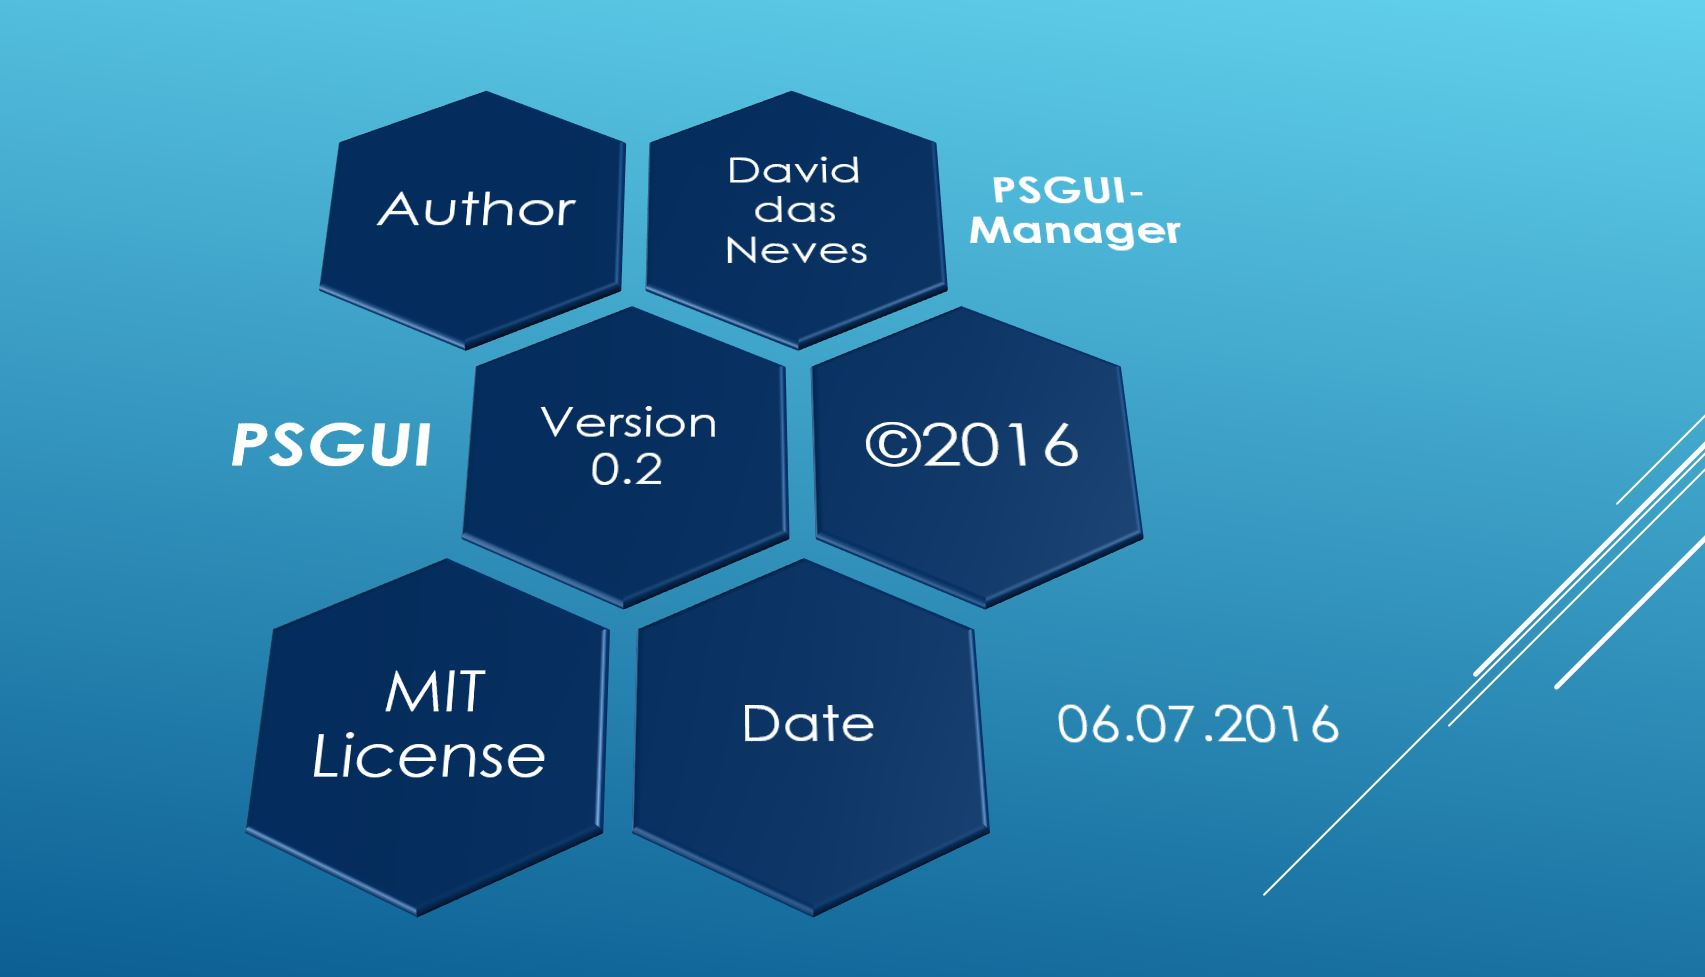
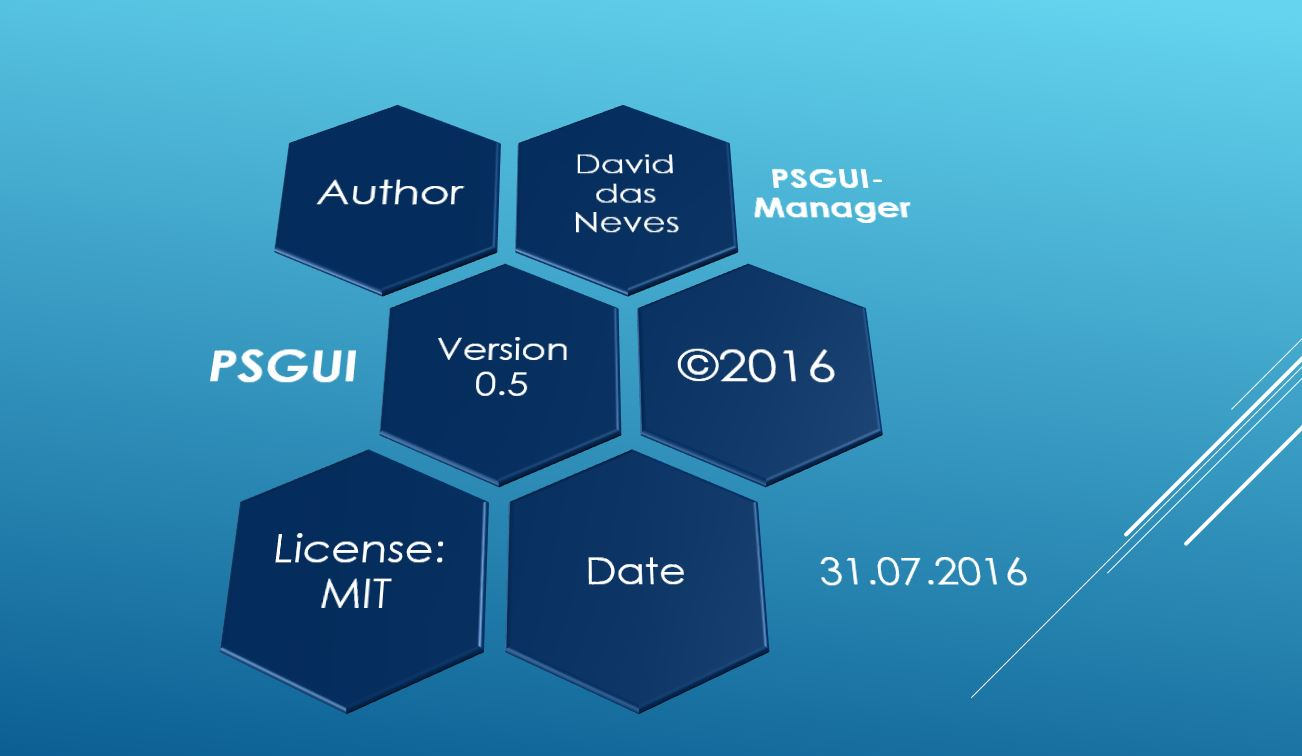
New Examples and new Version

diff --git a/Project PSGUI/PSGUI/Dialogs/Examples/02_PCInformation/02_PCInformation.xaml b/Project PSGUI/PSGUI/Dialogs/Examples/02_PCInformation/02_PCInformation.xaml
@@ -2,8 +2,8 @@
     xmlns="http://schemas.microsoft.com/winfx/2006/xaml/presentation"
     xmlns:x="http://schemas.microsoft.com/winfx/2006/xaml"
     Title="OS Details" Height="306" Width="525" WindowStartupLocation="CenterScreen" WindowStyle='None' ResizeMode='NoResize'>
-    <Grid Margin="0,0,-0.3,0.3">
-        <TextBox HorizontalAlignment="Center" Height="23" TextWrapping="Wrap" Text="Operating System Details" VerticalAlignment="Top" Width="525" Margin="0,-1,-0.3,0" TextAlignment="Center" Foreground="White" Background="#FF98D6EB"/>
+    <Grid Margin="0,0,-0.43,0.43">
+        <TextBox HorizontalAlignment="Center" Height="23" TextWrapping="Wrap" Text="Operating System Details" VerticalAlignment="Top" Width="525" Margin="0,-1,-0.43,0" TextAlignment="Center" Foreground="White" Background="#FF98D6EB"/>
         <Label Content="Hostname" HorizontalAlignment="Left" Margin="0,27,0,0" VerticalAlignment="Top" Height="30" Width="170" Background="#FF98D6EB" Foreground="White"/>
         <Label Content="Operating System Name" HorizontalAlignment="Left" Margin="0,62,0,0" VerticalAlignment="Top" Height="30" Width="170" Background="#FF98D6EB" Foreground="White"/>
         <Label Content="Available Memory" HorizontalAlignment="Left" Margin="0,97,0,0" VerticalAlignment="Top" Height="30" Width="170" Background="#FF98D6EB" Foreground="White"/>

diff --git a/Project PSGUI/PSGUI/Dialogs/Production/Example_PCInformation/Example_PCInformation.xaml b/Project PSGUI/PSGUI/Dialogs/Production/Example_PCInformation/Example_PCInformation.xaml
@@ -2,8 +2,8 @@
     xmlns="http://schemas.microsoft.com/winfx/2006/xaml/presentation"
     xmlns:x="http://schemas.microsoft.com/winfx/2006/xaml"
     Title="OS Details" Height="306" Width="525" WindowStartupLocation="CenterScreen" WindowStyle='None' ResizeMode='NoResize'>
-    <Grid Margin="0,0,-0.3,0.3">
-        <TextBox HorizontalAlignment="Center" Height="23" TextWrapping="Wrap" Text="Operating System Details" VerticalAlignment="Top" Width="525" Margin="0,-1,-0.3,0" TextAlignment="Center" Foreground="White" Background="#FF98D6EB"/>
+    <Grid Margin="0,0,-0.43,0.43">
+        <TextBox HorizontalAlignment="Center" Height="23" TextWrapping="Wrap" Text="Operating System Details" VerticalAlignment="Top" Width="525" Margin="0,-1,-0.43,0" TextAlignment="Center" Foreground="White" Background="#FF98D6EB"/>
         <Label Content="Hostname" HorizontalAlignment="Left" Margin="0,27,0,0" VerticalAlignment="Top" Height="30" Width="170" Background="#FF98D6EB" Foreground="White"/>
         <Label Content="Operating System Name" HorizontalAlignment="Left" Margin="0,62,0,0" VerticalAlignment="Top" Height="30" Width="170" Background="#FF98D6EB" Foreground="White"/>
         <Label Content="Available Memory" HorizontalAlignment="Left" Margin="0,97,0,0" VerticalAlignment="Top" Height="30" Width="170" Background="#FF98D6EB" Foreground="White"/>

diff --git a/Project PSGUI/PSGUI/PSGUI_Manager/PSGUI_Manager.xaml b/Project PSGUI/PSGUI/PSGUI_Manager/PSGUI_Manager.xaml
@@ -3,7 +3,7 @@
     ===========================================================================
         Created on:   	06.07.2016
         Created by:   	David das Neves
-        Version:        0.3
+        Version:        0.43
         Project:        PSGUI_Manager
         Filename:       PSGUI_Manager.xaml
     ===========================================================================
@@ -87,7 +87,7 @@
             <ColumnDefinition Width="0.94*" />
             <ColumnDefinition Width="auto" />
             <ColumnDefinition Width="0.55*" />
-            <!--<ColumnDefinition Width="0.3*" />-->
+            <!--<ColumnDefinition Width="0.43*" />-->
         </Grid.ColumnDefinitions>
 
         <!-- Grid Splitters -->

diff --git a/Project PSGUI/PSGUI/Dialogs/Production/MouseTracker/MouseTracker.xaml b/Project PSGUI/PSGUI/Dialogs/Production/MouseTracker/MouseTracker.xaml
@@ -8,7 +8,7 @@
         CornerRadius="15" VerticalAlignment="Top" Name="Border">        
         <Border.Background>
             <LinearGradientBrush StartPoint='0,0' EndPoint='0,1'>
-                <LinearGradientBrush.GradientStops> <GradientStop Color='#C4CBD8' Offset='0' /> <GradientStop Color='#E6EAF5' Offset='0.3' /> 
+                <LinearGradientBrush.GradientStops> <GradientStop Color='#C4CBD8' Offset='0' /> <GradientStop Color='#E6EAF5' Offset='0.43' /> 
                 <GradientStop Color='#CFD7E2' Offset='0.9' /> <GradientStop Color='#C4CBD8' Offset='1' /> </LinearGradientBrush.GradientStops>
             </LinearGradientBrush>
         </Border.Background> 

diff --git a/Project PSGUI/PSGUI/Dialogs/Examples/20_PSGUIManager_Example/20_PSGUIManager_Example.xaml b/Project PSGUI/PSGUI/Dialogs/Examples/20_PSGUIManager_Example/20_PSGUIManager_Example.xaml
@@ -3,7 +3,7 @@
     ===========================================================================
         Created on:   	05.07.2016
         Created by:   	David das Neves
-        Version:        0.3
+        Version:        0.43
         Project:        PSGUI_Manager
         Filename:       PSGUI_Manager.xaml
     ===========================================================================
